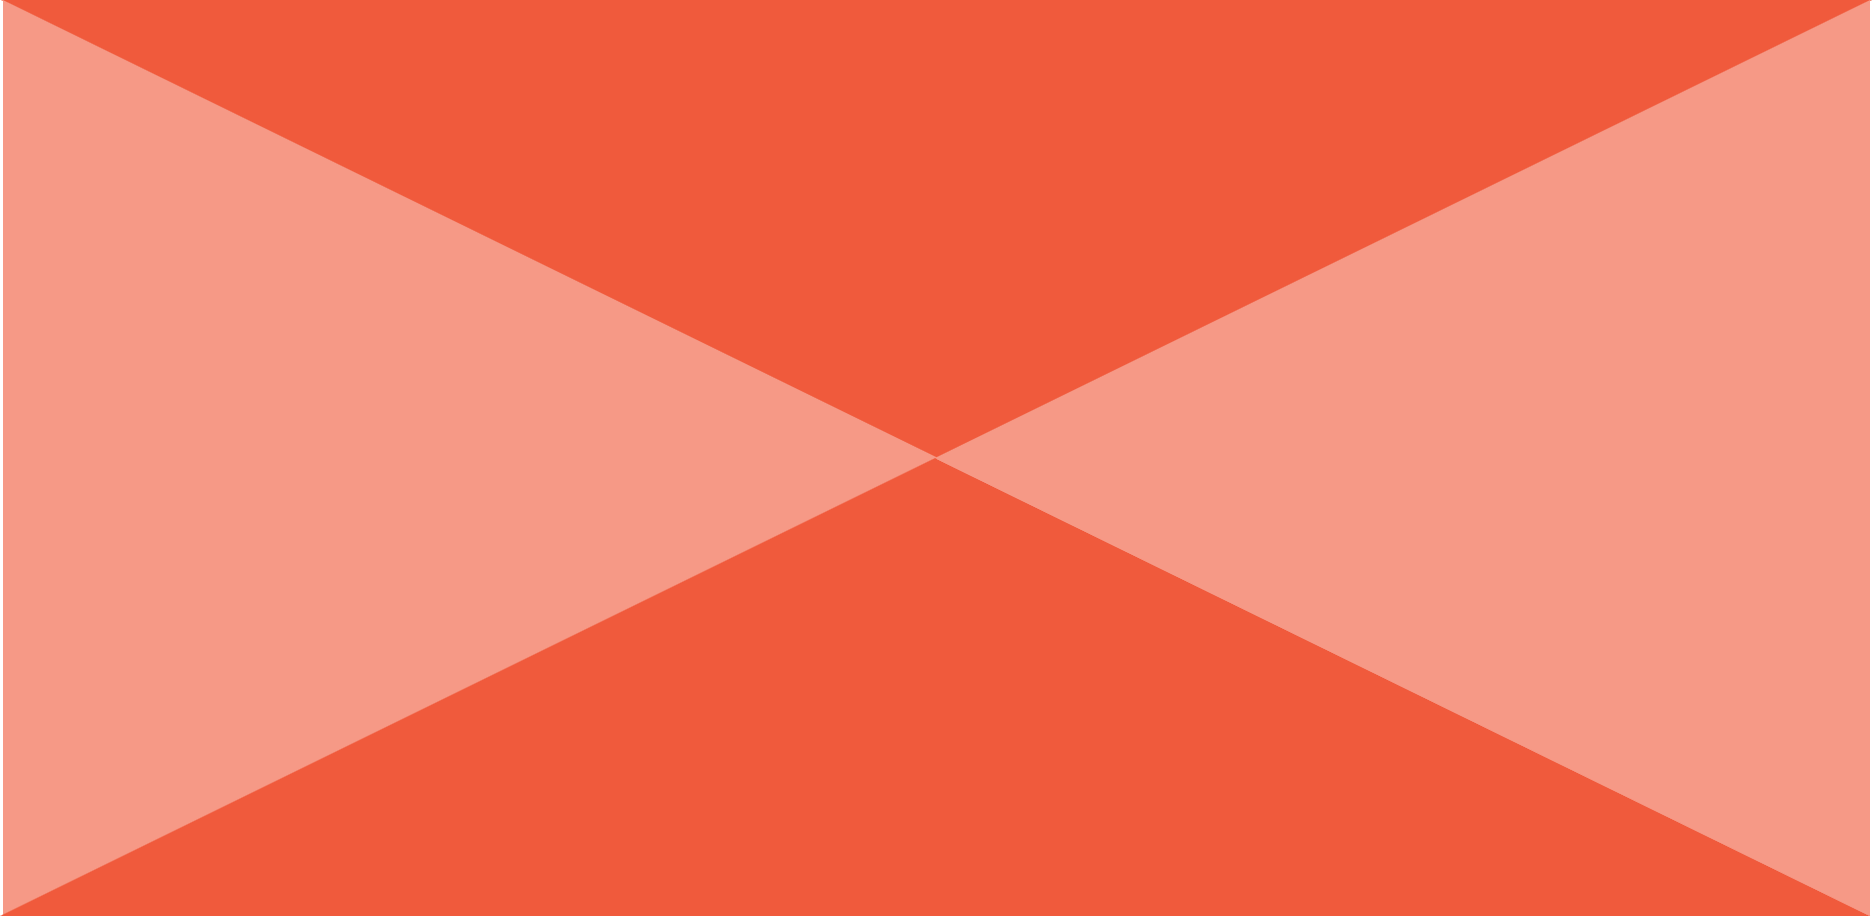
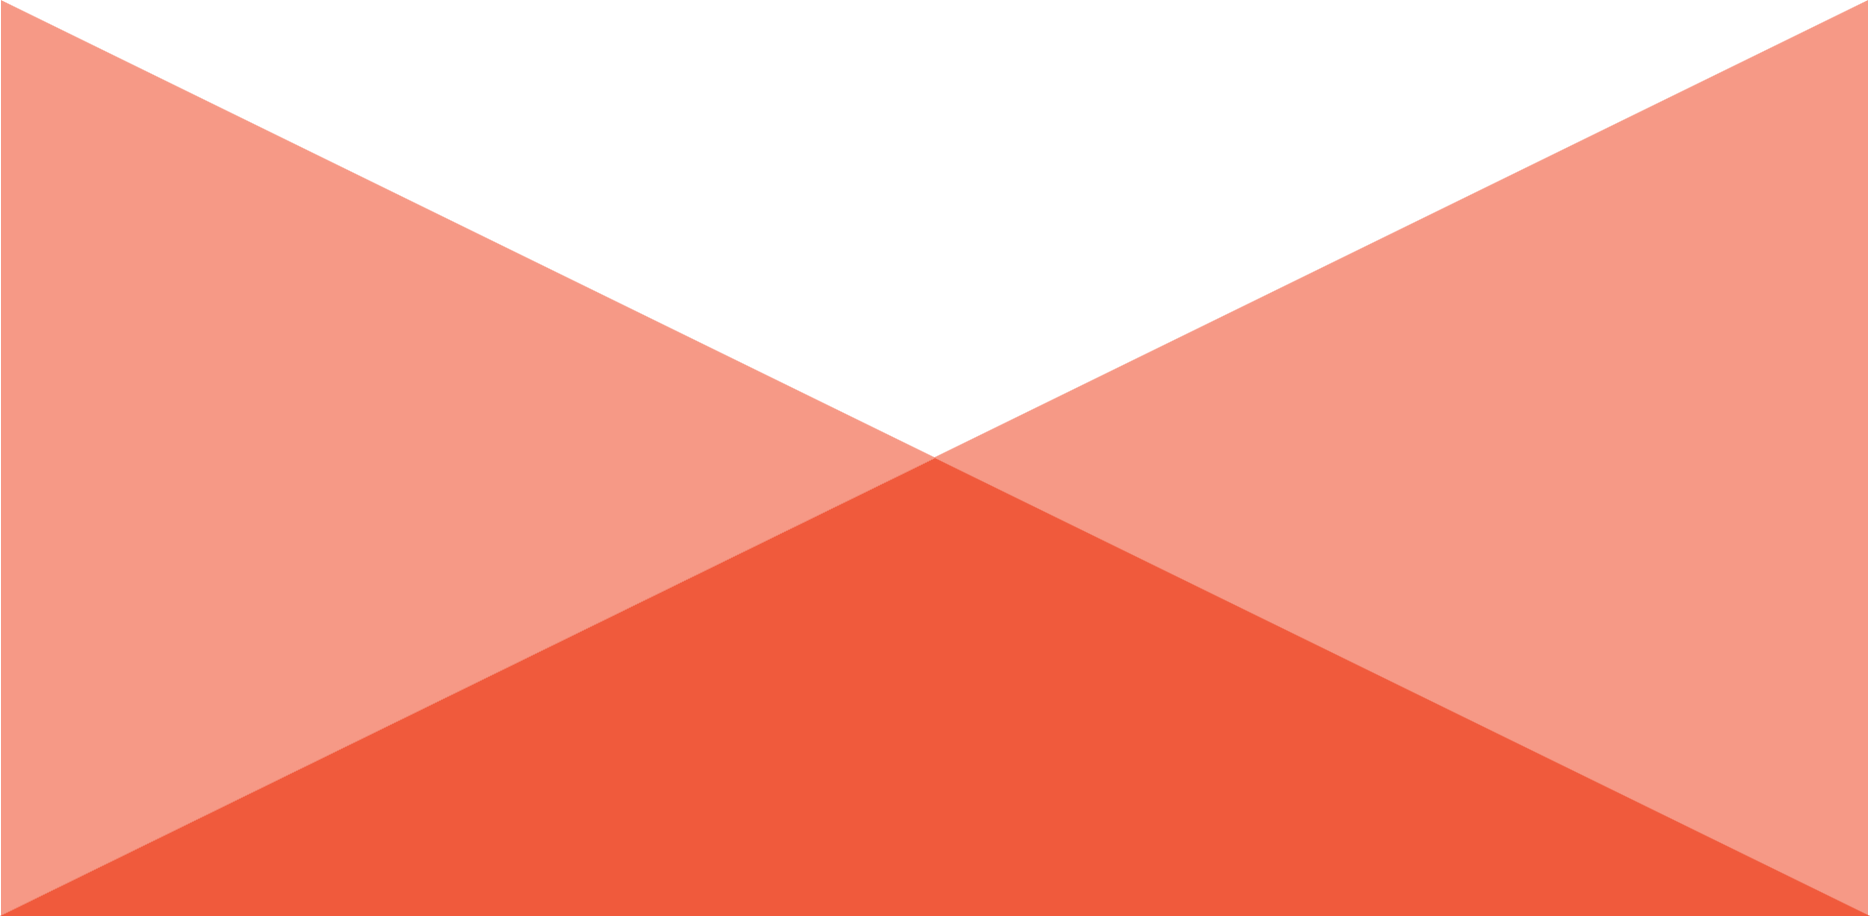
Finalizada carta e suas animações

Changed region(s): [[0.0, 0.0, 1.0, 0.5197]]

diff --git a/styles.css b/styles.css
@@ -31,15 +31,34 @@ body {
     animation: openFlap 2s ease-in-out forwards;
 }
 
-.flapImage, .letterImage {
+.flapImage, .letterImage, .backEnvelope {
     width: 100%;
+}
+
+.backEnvelope {
+    position: absolute;
+    top: 0;
+    left: 0;
+    z-index: -5;
+}
+
+.letterImageWrite {
+    position: absolute;
+    top: 5%;
+    left: 2.5%;
+    width: 95%;
+    z-index: -1;
+}
+
+.letterImageWrite.slideLetter {
+    animation: slideLetter 1s ease-in-out 3s 1 forwards;
 }
 
 .message {
     position: absolute;
-    top: 50%;
-    left: 50%;
-    transform: translate(-50%, -50%);
+    top: 18%;
+    left: 27%;
+    /* transform: translate(-50%, -50%); <-- DELETAR */
     font-size: 1.5rem;
     opacity: 0;
     transition: opacity 2s ease-in-out;
@@ -47,6 +66,19 @@ body {
 
 .message.visible {
     opacity: 1;
+    animation: slideLetter 1s ease-in-out 3s 1 forwards;
+}
+
+.heartImage {
+    width: 150px;
+    position: absolute;
+    top: 0;
+    left: 0;
+    z-index: -1;
+}
+
+.heartImage.slideHeart {
+    animation: slideHeart 3s ease-in-out 2.5s 1 forwards;
 }
 
 button {
@@ -68,8 +100,44 @@ button:hover {
 @keyframes openFlap {
     0% {
         transform: rotateX(0deg);
+        z-index: 0;
+    }
+
+    95% {
+        transform: rotateX(180deg);
+        z-index: 0;
+    }
+
+    100% {
+        transform: rotateX(180deg);
+        z-index: -2;
+    }
+}
+
+@keyframes slideLetter {
+    0% {
+        transform: translateY(0);
+    }
+
+    100% {
+        transform: translateY(-70px);
+    }
+}
+
+@keyframes slideHeart {
+    0% {
+        transform: translateY(0) rotateZ(0);
+    }
+    25% {
+        transform: translateY(-125px) rotateZ(10deg);
+    }
+    50% {
+        transform: translateY(-250px) rotateZ(-10deg);
+    }
+    75% {
+        transform: translateY(-375px) rotateZ(10deg);
     }
     100% {
-        transform: rotateX(200deg);
+        transform: translateY(-500px) rotateZ(-10deg);
     }
 }

diff --git a/index.html b/index.html
@@ -9,12 +9,17 @@
 <body>
     <div class="envelope">
         <img src="./img/letterEnvelope.png" class="letterImage" alt="" srcset="">
+        <img src="./img/letter.png" class="letterImageWrite" alt="" srcset="">
+        <img src="./img/BackLetterEnvelope.png" class="backEnvelope" alt="" srcset="">
+        <img src="./img/heart.png" class="heartImage" alt="" srcset="">
         <div class="flap">
             <img src="./img/flapEnvelope.png" class="flapImage" alt="" srcset="">
         </div>
         <div class="message">💌 Hello Word!</div>
     </div>
     <button id="animatedButton">Abrir Envelope</button>
+
+    <audio autoplay loop src="./audio/MetamorfoseAmbulante.mp3"></audio>
 
     <script src="script.js"></script>
 </body>

diff --git a/script.js b/script.js
@@ -1,9 +1,15 @@
 const button = document.getElementById("animatedButton");
 const flap = document.querySelector(".flap");
 const message = document.querySelector(".message");
+const letter = document.querySelector(".letterImageWrite");
+const heart = document.querySelector(".heartImage");
 
 button.addEventListener("click", () => {
     flap.classList.add("open");
 
     message.classList.add("visible");
+
+    letter.classList.add("slideLetter");
+
+    heart.classList.add("slideHeart");
 })
